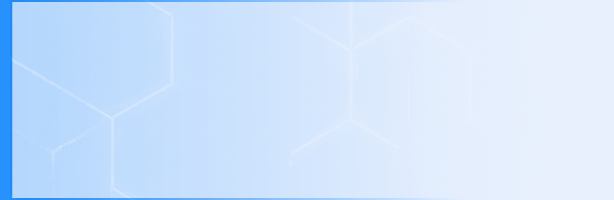
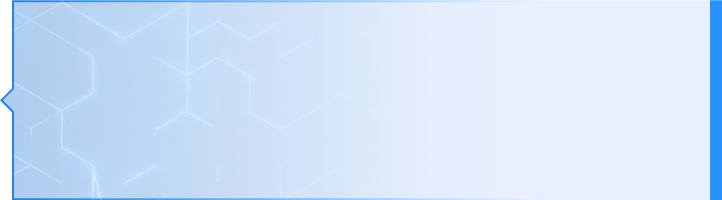
feat: [lh web] Add new 热门活动 popup with carousel functionality

Changed region(s): [[0.9593, 0.0, 1.0, 1.0], [0.0, 0.0, 0.6189, 1.0]]

diff --git a/lh-static-web/src/components/modal/SitePopout.vue b/lh-static-web/src/components/modal/SitePopout.vue
@@ -10,7 +10,7 @@
           class="left-item"
           :class="index === selectedItemIndex ? 'active' : ''"
           v-for="(popoutListItem, index) in popoutList"
-          @click="selectedItemIndex = index"
+          @click="() => onSelectItem(index)"
         >
           <div class="title">{{ popoutListItem.title }}</div>
           <div class="period" v-if="popoutListItem.displayStartTime && popoutListItem.displayEndTime">
@@ -20,14 +20,28 @@
         </div>
       </div>
       <div class="right">
-        <div v-if="selectedItem?.desktopImgUrl">
-          <img
-            @click="onClickPopoutImg(`/promotion?name=${selectedItem.path}`)"
-            :src="`${imgURL}${selectedItem.desktopImgUrl}`"
-          />
+        <div v-if="selectedItem?.desktopImgUrl" class="banner-section">
+          <swiper
+            :spaceBetween="20"
+            :loop="false"
+            @swiper="onSwiper"
+            @slideChange=""
+            class="swiper-wrapper"
+            :direction="'vertical'"
+          >
+            <swiper-slide v-for="(popoutListItem, index) in popoutList">
+              <div class="promo-banner-wrapper">
+                <img
+                  class="promo-banner"
+                  @click="onClickPopoutImg(`/promotion?name=${selectedItem.path}`)"
+                  :src="`${imgURL}${popoutListItem.desktopImgUrl}`"
+                />
+              </div>
+            </swiper-slide>
+          </swiper>
           <!-- <router-link :to="`/promotion?name=${selectedItem.path}`" class="check-details-btn">{{ $t('sitePopout.checkDetails') }}</router-link> -->
         </div>
-      </div>
+      </div>    
     </div>
   </div>
 </template>
@@ -39,6 +53,22 @@ import { useLocalStorage } from "@vueuse/core";
 import moment from "moment";
 import { useRouter } from "vue-router";
 import { uiStore } from "@/store/ui";
+
+
+import { Swiper, SwiperSlide } from "swiper/vue";
+import "swiper/css";
+import "swiper/css/navigation";
+
+const $swiper = ref(null);
+
+const onSwiper = (swiper) => {
+  $swiper.value = swiper;
+};
+
+const onSelectItem = (index) => {
+  selectedItemIndex.value = index;
+  $swiper.value.slideTo(index);
+}
 
 const EDITION = {
   NORMAL: "NORMAL",
@@ -94,13 +124,11 @@ onMounted(() => {
   align-items: center;
   font-family: "PingFang SC";
   background: url("../../assets/images/home/site-popout/popout-bg2.png") no-repeat center center;
-  // background-size: 100% 100%;
-  // aspect-ratio: 1826 / 1156;
-  // padding: 8% 5% 0% 5%;
-  padding: 4% 4% 5% 4%;
   background-size: 100% 100%;
-  width: 830px;
+  width: 1131px;
+  height: 687px;
   gap: 16px;
+  padding: 45px;
 
   .header {
     width: 100%;
@@ -118,16 +146,12 @@ onMounted(() => {
   }
 
   .content {
-    // display: grid;
-    // grid-template-columns: 1.5fr 2fr;
-    // grid-template-columns: 0.7fr 1.7fr;
     width: 100%;
     height: 100%;
-    min-height: 300px;
-    max-height: 400px;
     gap: 10px;
-    display: flex;
     overflow: auto;
+    display: grid;
+    grid-template-columns: 689px 342px;
 
     .left {
       flex: 2;
@@ -166,7 +190,7 @@ onMounted(() => {
         // aspect-ratio: 300 / 100;
 
         .title {
-          font-family: "SF Pro";
+          font-family: "PingFang SC";
           font-size: 14px;
           font-weight: 700;
           line-height: 20px;
@@ -175,10 +199,11 @@ onMounted(() => {
           white-space: nowrap;
           overflow: hidden;
           text-overflow: ellipsis;
+          text-align: left;
         }
 
         .period {
-          font-family: "SF Pro";
+          font-family: "PingFang SC";
           font-size: 12px;
           font-weight: 400;
           line-height: 17px;
@@ -202,14 +227,34 @@ onMounted(() => {
       // border-radius: 15px;
       // border: 2px solid #2cbdff;
       overflow: hidden;
-      max-width: 475px;
       flex: 5;
-
       text-align: right;
-      > div {
+      
+      .banner-section {
         width: 100%;
         height: 100%;
+        display: flex;
+        justify-content: center;
+        align-items: center;
+        border: 1px solid #56a0eb5c;
+
+        .promo-banner-wrapper {
+          width: 100%;
+          height: 100%;
+          display: flex;
+          justify-content: center;
+          align-items: center;
+        }
+
+        .promo-banner {
+          width: 100%;
+          height: auto;
+          width: auto;
+          height: auto;
+          max-width: 100%;
+        }
       }
+
       .check-details-btn {
         position: absolute;
         right: 5%;
@@ -235,14 +280,35 @@ onMounted(() => {
         height: 100%;
         // transform: scale(1.01);
         cursor: pointer;
-        border-radius: 18px;
-        border: 2px solid #36afe3;
-        max-height: 390px;
 
         &:hover {
           filter: brightness(0.9);
         }
       }
+    }
+  }
+}
+
+@media screen and (max-width: 1200px) {
+  .container {
+    width: 800px;
+    height: 570px;
+    margin-top: 35%;
+
+    .content {
+      grid-template-columns: 435px 265px;
+    }
+  }
+}
+
+@media screen and (max-width: 800px) {
+  .container {
+    width: 600px;
+    height: 500px;
+    margin-top: 50%;
+
+    .content {
+      grid-template-columns: 335px 165px;
     }
   }
 }

diff --git a/lh-static-web/src/components/home/HomeBanner.vue b/lh-static-web/src/components/home/HomeBanner.vue
@@ -4,7 +4,7 @@
     class="imptann-modal"
     v-model="isImportantAnnoucementModal"
     v-if="!isImpt"
-    width="820px"
+    width=""
   >
     <div style="position: relative;">
       <SitePopout />
@@ -272,8 +272,7 @@ watch(
 
 .close-btn {
   position: absolute;
-  right: -60px;
-  top: 45px;
+  bottom: -55px;
   cursor: pointer;
 }
 </style>
